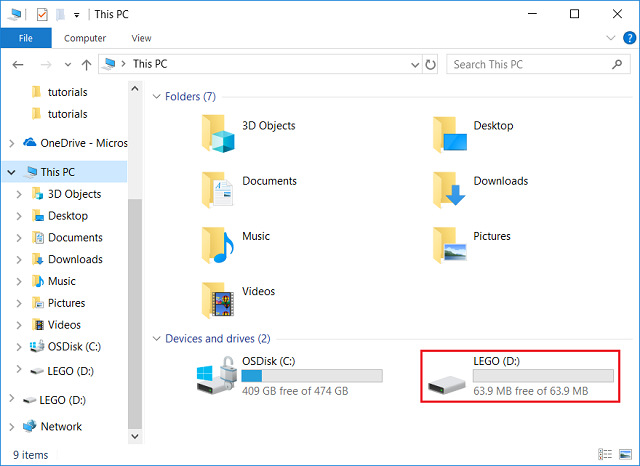
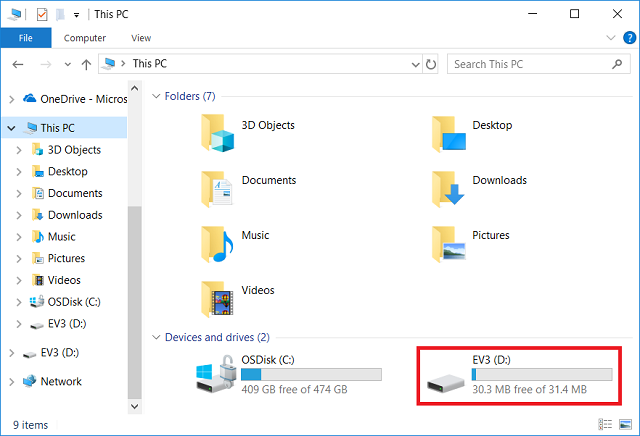
Change drive label to EV3

diff --git a/docs/troubleshoot.md b/docs/troubleshoot.md
@@ -25,9 +25,9 @@ Make sure that one end of your USB cable is firmly inserted into the port on the
 If you think your USB connection is good and you still can't see your **@drivename@** drive, try giving the brick a reset. You can follow these steps to reset:
 
 1. Using a finger from one hand, press the **Back** button. Keep holding it.
-2. With your other hand, use two fingers to hold down both the **Left** button and the **Enter** button. You hold these at the same time while your still pressing the **Back** button.
+2. With your other hand, use two fingers to hold down both the **Left** button and the **Enter** button. You hold these at the same time while you're still pressing the **Back** button.
 3. Now, release your finger from the **Back** button.
-4. When the brick says "Starting..." you can let go of the **Left** and **Enter** buttons.
+4. When the brick says "Starting.." you can let go of the **Left** and **Enter** buttons.
 
 You can also watch this [How to Reset](https://www.lego.com/en-us/videos/themes/mindstorms/how-to-reset-the-ev3-p-brick-fbcbdbed398e4e12a7ce30fa662c54be) video to see how to do a reset.
 
